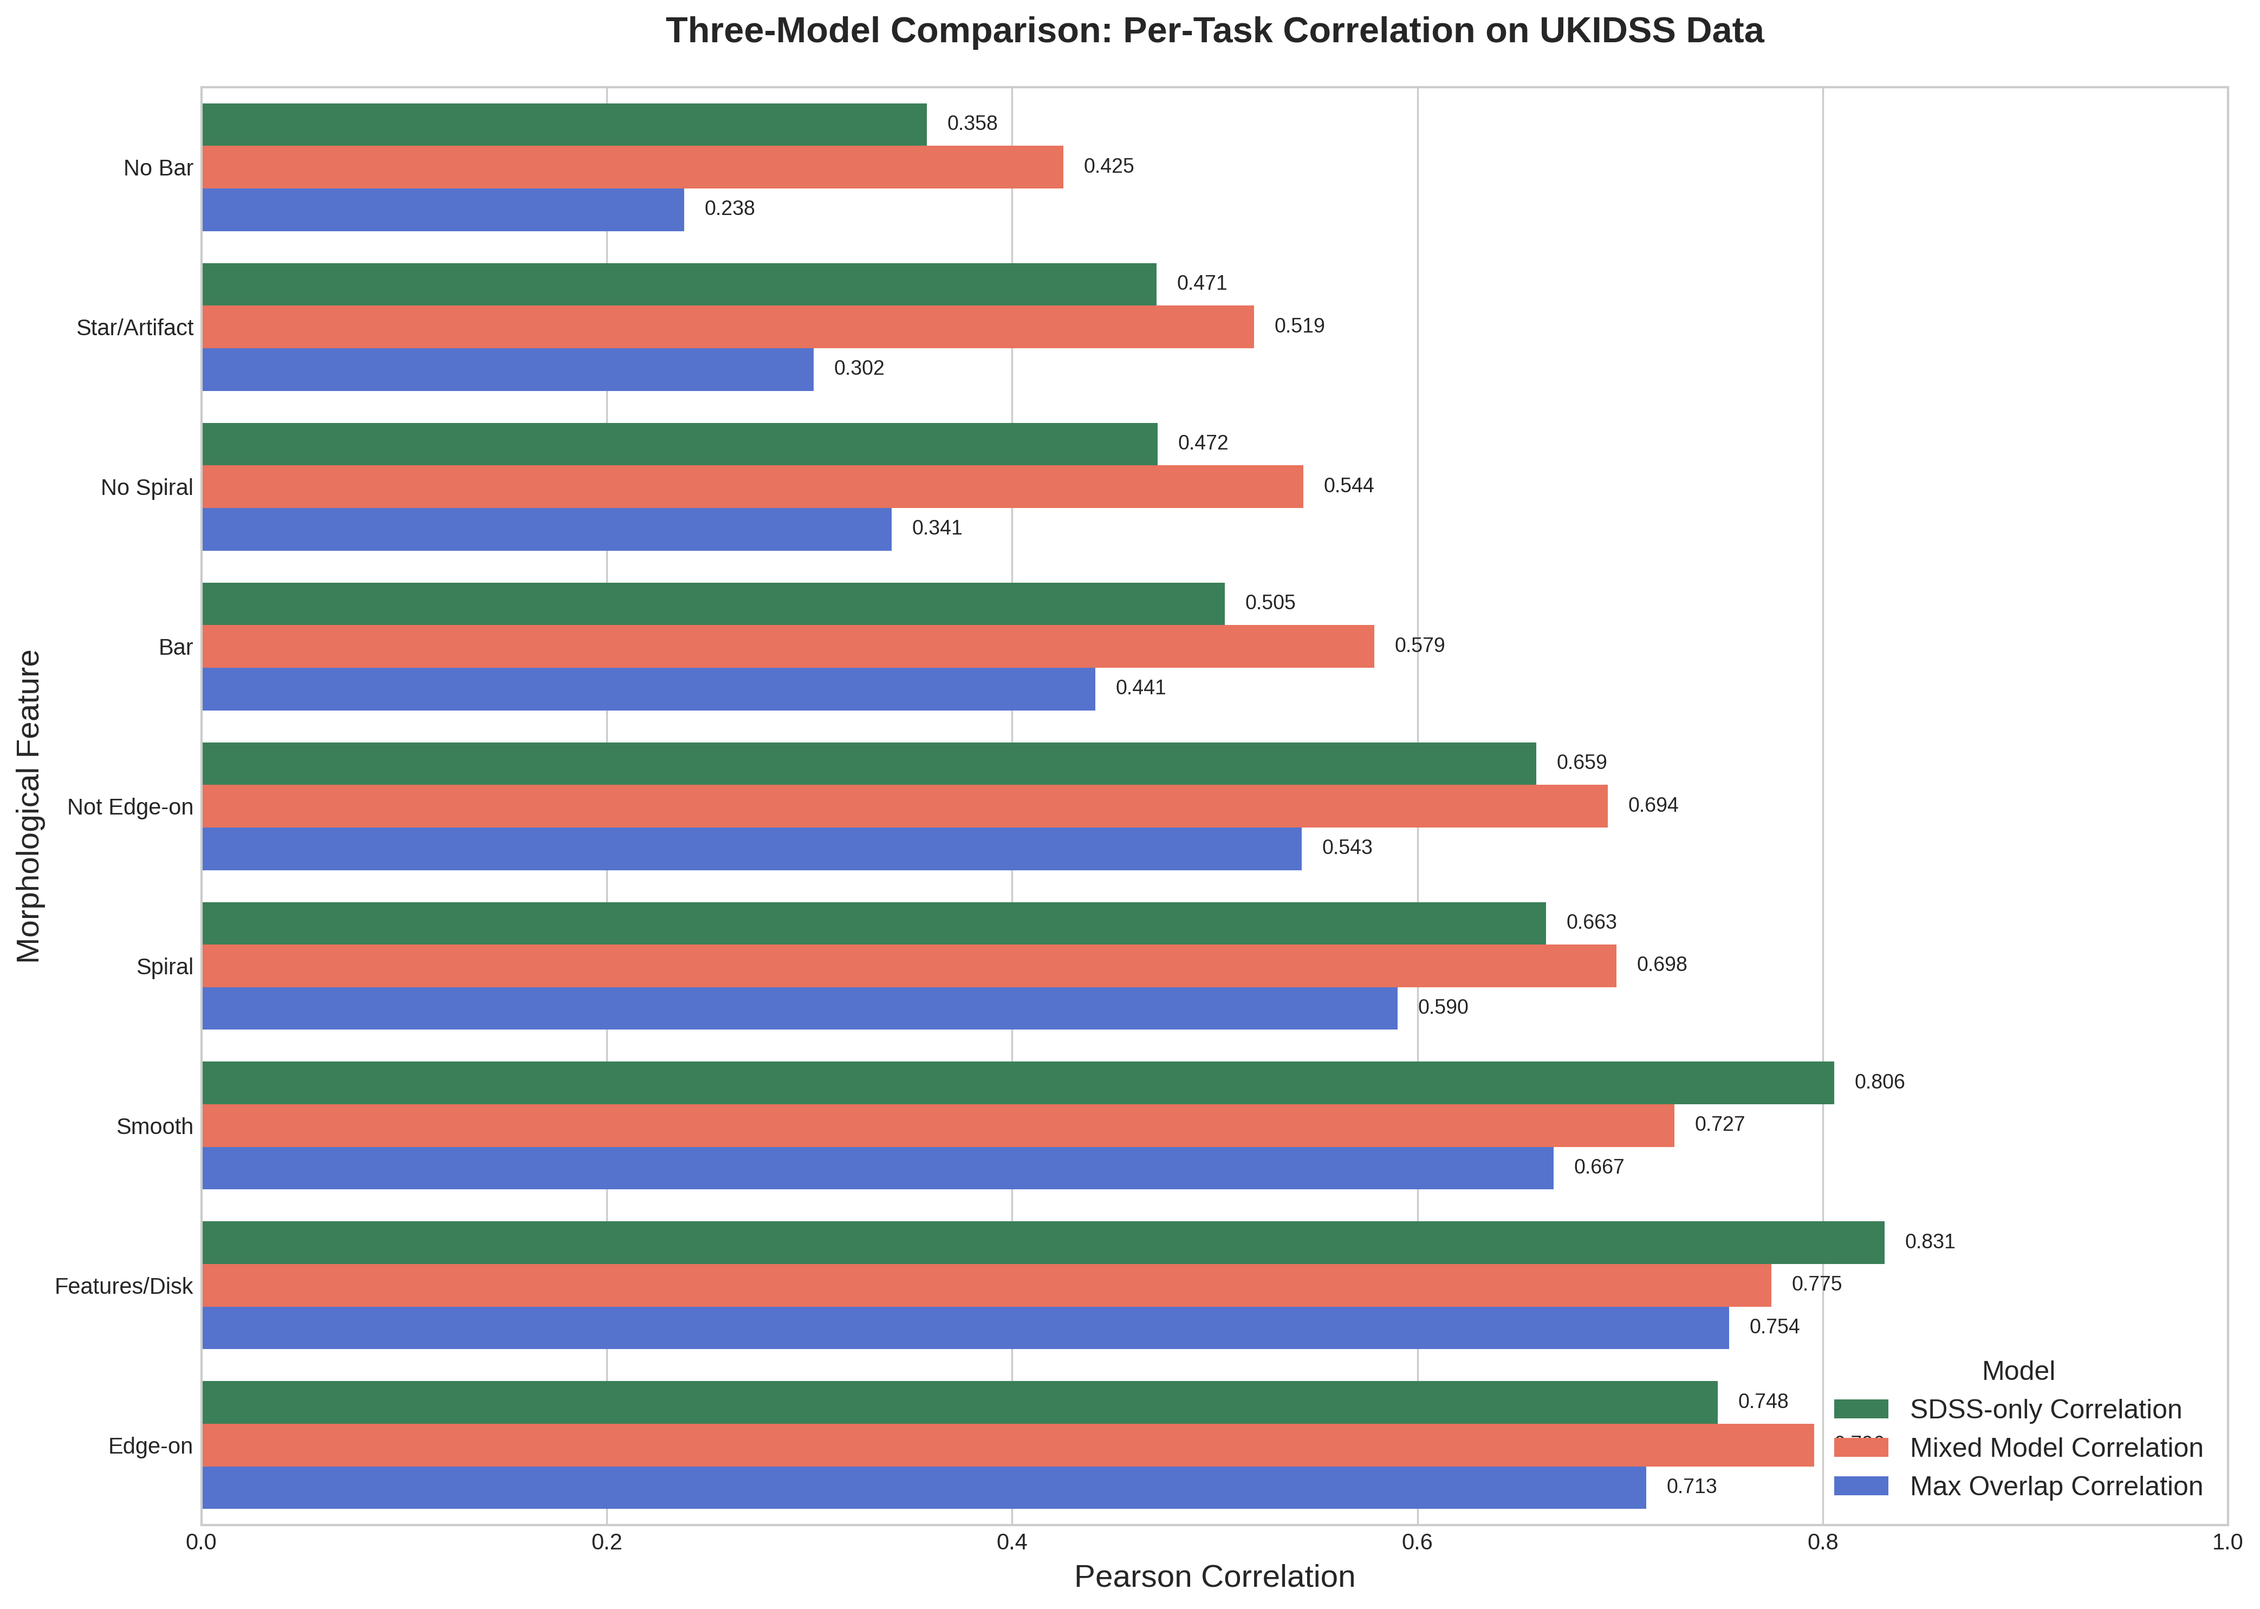
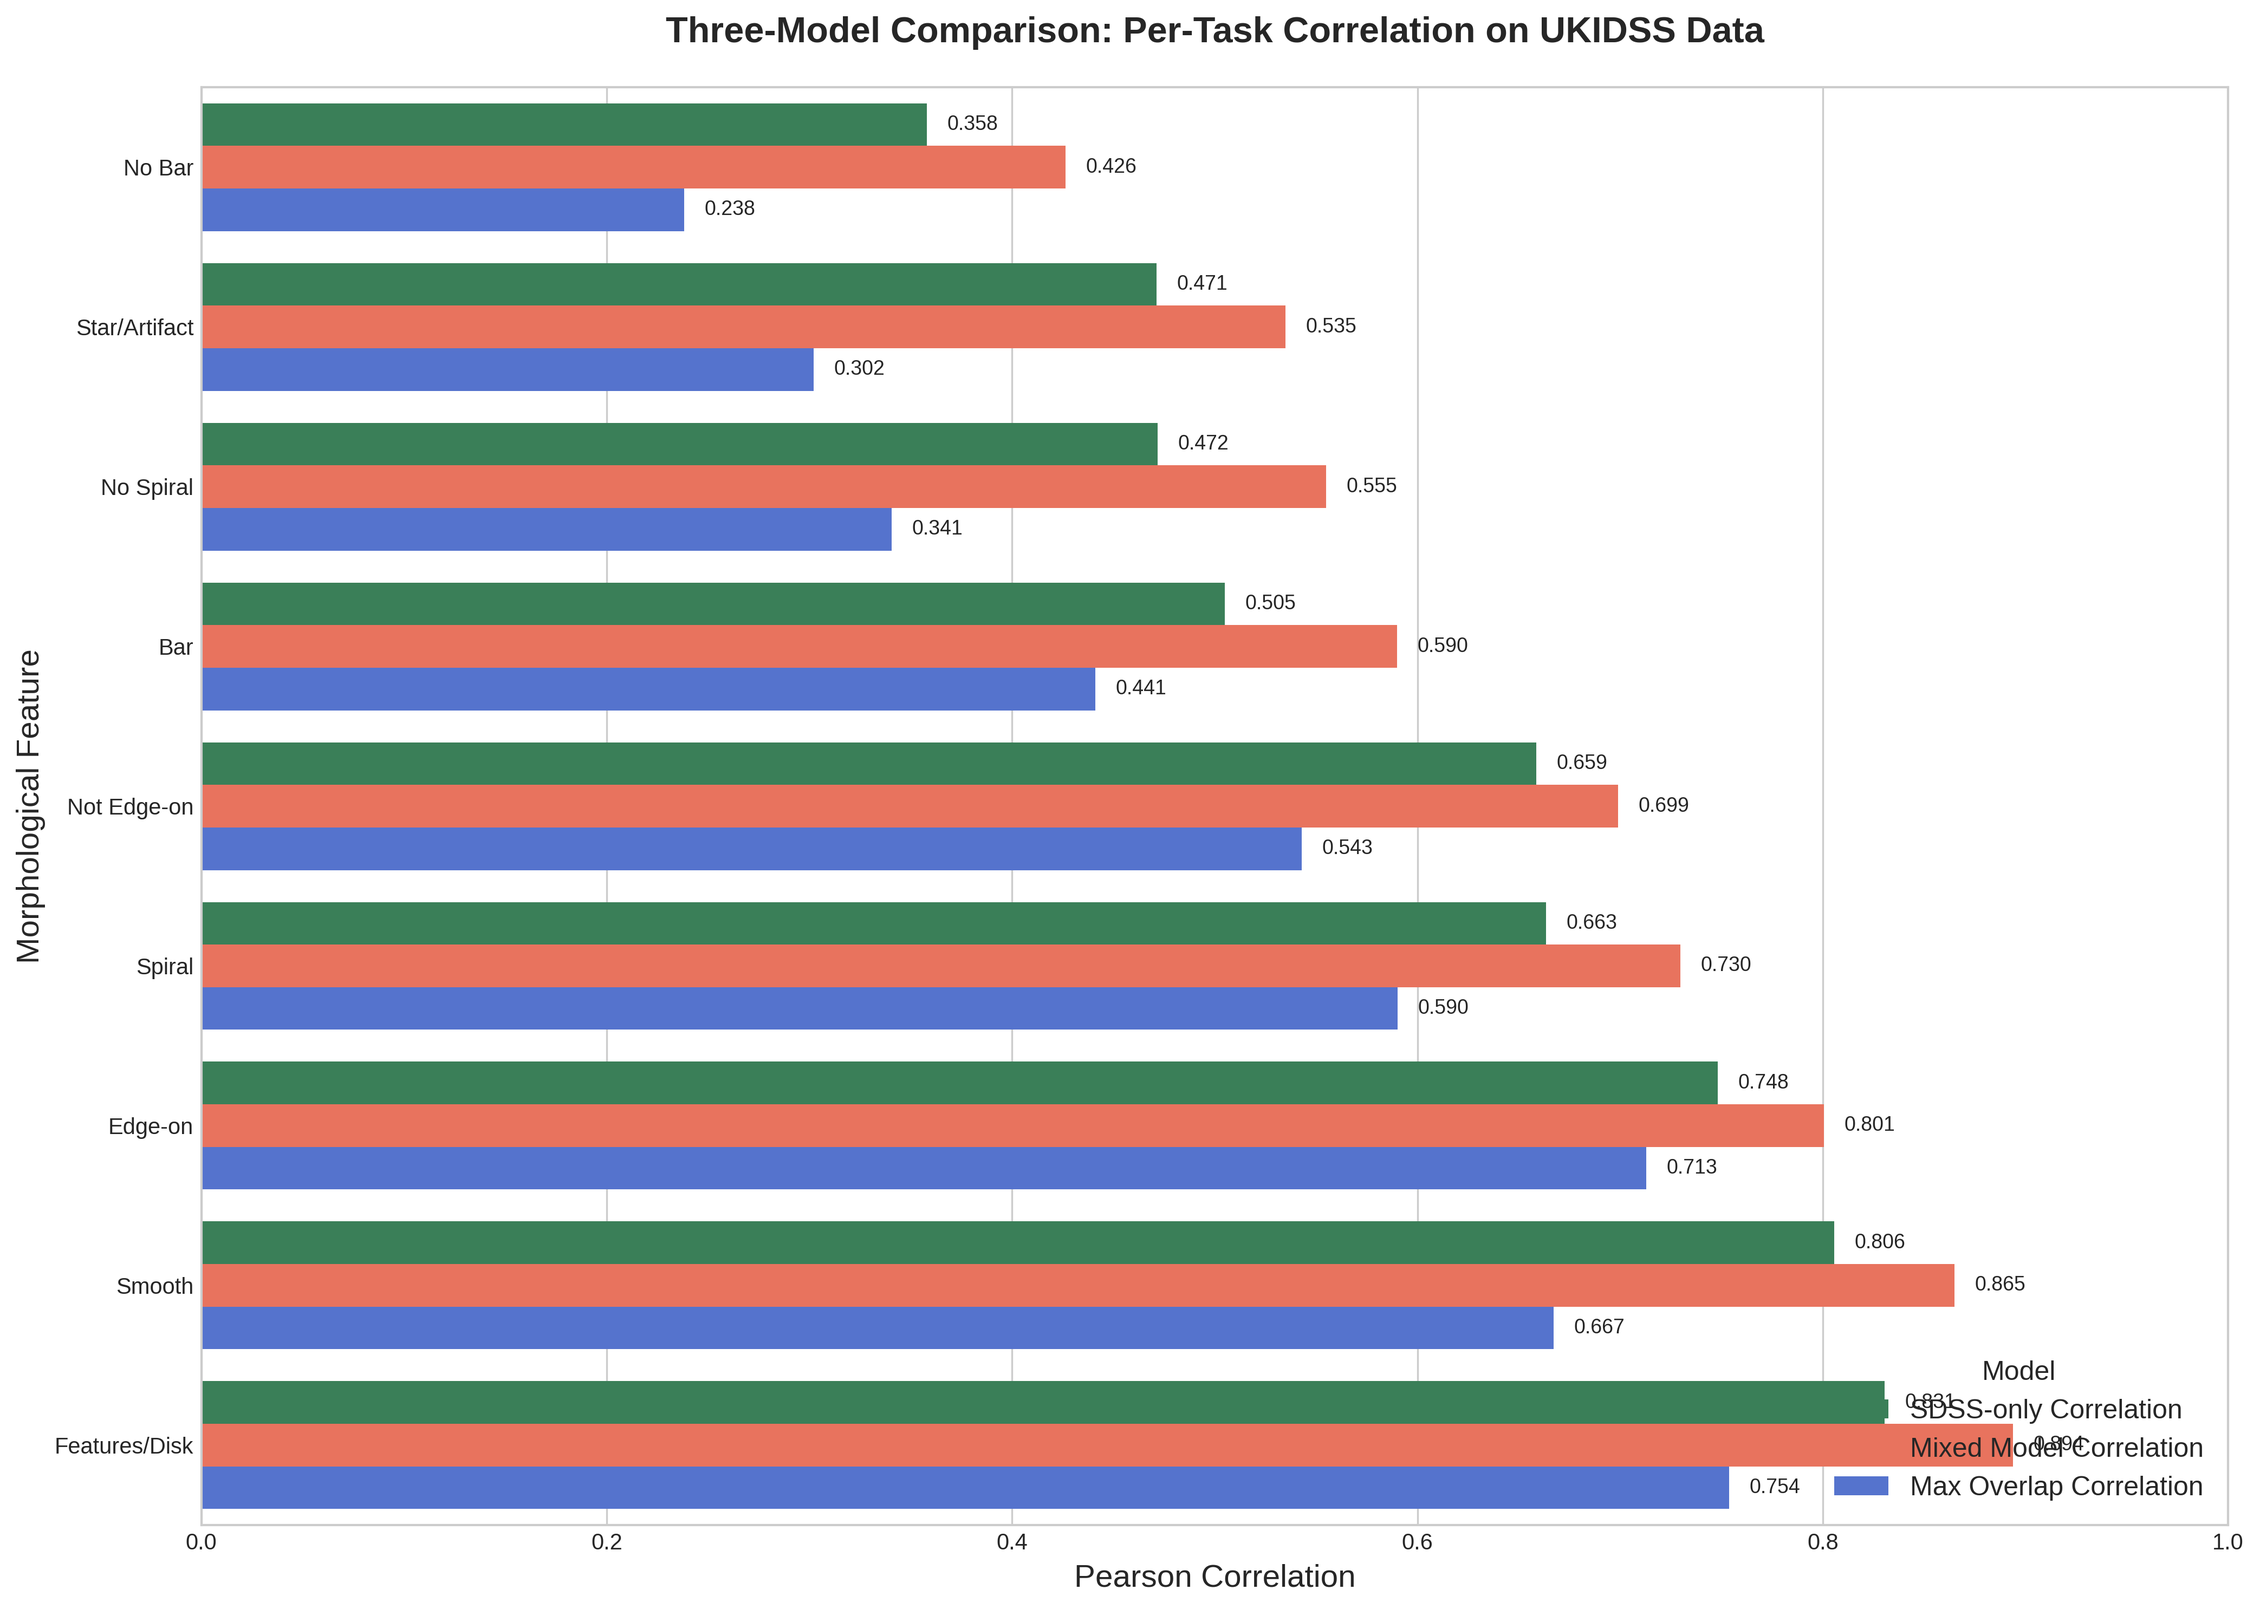
fixing feature map bug in compare_model

diff --git a/scripts/compare_models.py b/scripts/compare_models.py
@@ -155,6 +155,25 @@ def load_shared_features(filepath):
             features.append(feature_name)
     return features
 
+def get_model_features_from_config(config_path, model_path):
+    """Determine model features based on config and validate against model size."""
+    with open(config_path, 'r') as f:
+        config = yaml.safe_load(f)
+    
+    # Check if this is a mixed dataset model
+    mixed_config = config.get('mixed_data', {})
+    if mixed_config.get('use_mixed_dataset', False):
+        dataset_name = mixed_config.get('dataset_name', 'MixedSDSSDECaLSDataset')
+        if dataset_name == "MaxOverlapDataset":
+            print(f"Detected MaxOverlapDataset model: {model_path}")
+            return load_shared_features(SHARED_FEATURES_FILE)  # Max overlap uses same feature set as mixed
+        else:
+            print(f"Detected Mixed SDSS+DECaLS model: {model_path}")
+            return load_shared_features(SHARED_FEATURES_FILE)
+    else:
+        print(f"Detected SDSS-only model: {model_path}")
+        return get_sdss_feature_columns(SDSS_CATALOG_PATH)
+
 def run_comparison(args):
     """Runs the two-model comparison."""
     print("Running in comparison mode...")
@@ -167,38 +186,55 @@ def run_comparison(args):
     ukidss_dataset = load_ukidss_data()
 
     # Get predictions
-    preds1, true_labels = get_predictions(model1, device, ukidss_dataset)
-    preds2, _ = get_predictions(model2, device, ukidss_dataset)
-
-    # ... (rest of comparison logic as before) ...
-    # This part needs to be adapted to use the generic preds1, preds2 etc.
-    # For now, let's assume model1 is SDSS and model2 is Mixed for simplicity of refactoring.
+    model1_preds, true_labels = get_predictions(model1, device, ukidss_dataset)
+    model2_preds, _ = get_predictions(model2, device, ukidss_dataset)
     
-    sdss_preds, mixed_preds = preds1, preds2
-    
-    print(f"Model 1 predictions shape: {sdss_preds.shape}")
-    print(f"Model 2 predictions shape: {mixed_preds.shape}")
+    print(f"Model 1 predictions shape: {model1_preds.shape}")
+    print(f"Model 2 predictions shape: {model2_preds.shape}")
     print(f"True labels shape: {true_labels.shape}")
     
-    # The rest of the logic from the original main function follows...
+    # Get feature columns for each model based on their configs
     ukidss_label_columns = ukidss_dataset.label_columns
-    all_shared_features = load_shared_features(SHARED_FEATURES_FILE)
-    comparison_features = [f for f in all_shared_features if f in ukidss_label_columns and "fraction" in f]
-    print(f"\nFound {len(comparison_features)} features common to all models and the UKIDSS dataset for comparison.")
+    
+    model1_features = get_model_features_from_config(args.model1_config, args.model1_path)
+    model2_features = get_model_features_from_config(args.model2_config, args.model2_path)
+    
+    # Validate feature counts match model outputs
+    if len(model1_features) != args.model1_features:
+        print(f"WARNING: Model1 config suggests {len(model1_features)} features, but --model1_features={args.model1_features}")
+        # Truncate to actual model size
+        model1_features = model1_features[:args.model1_features]
+    
+    if len(model2_features) != args.model2_features:
+        print(f"WARNING: Model2 config suggests {len(model2_features)} features, but --model2_features={args.model2_features}")
+        # Truncate to actual model size  
+        model2_features = model2_features[:args.model2_features]
+    
+    # Find common features between both models and UKIDSS
+    comparison_features = []
+    for feature in ukidss_label_columns:
+        if feature in model1_features and feature in model2_features and "fraction" in feature:
+            comparison_features.append(feature)
+    
+    print(f"\nFound {len(comparison_features)} features common to both models and UKIDSS dataset.")
+    print(f"Model 1 features: {len(model1_features)} total")
+    print(f"Model 2 features: {len(model2_features)} total")
+    
+    # Get indices for each model
+    model1_indices = [model1_features.index(f) for f in comparison_features]
+    model2_indices = [model2_features.index(f) for f in comparison_features]
+    ukidss_indices = [ukidss_label_columns.index(f) for f in comparison_features]
+    
+    # Extract relevant predictions and labels
+    model1_preds_final = model1_preds[:, model1_indices]
+    model2_preds_final = model2_preds[:, model2_indices]
+    true_labels_final = true_labels[:, ukidss_indices]
+    
+    print(f"Model 1 final predictions: {model1_preds_final.shape}")
+    print(f"Model 2 final predictions: {model2_preds_final.shape}")
+    print(f"True labels final: {true_labels_final.shape}")
 
-    sdss_all_features = get_sdss_feature_columns(SDSS_CATALOG_PATH)
-    sdss_indices = [sdss_all_features.index(f) for f in comparison_features]
-    sdss_preds_final = sdss_preds[:, sdss_indices]
-
-    mixed_indices = [all_shared_features.index(f) for f in comparison_features]
-    mixed_preds_final = mixed_preds[:, mixed_indices]
-
-    true_labels_indices = [ukidss_label_columns.index(f) for f in comparison_features]
-    true_labels_final = true_labels[:, true_labels_indices]
-
-    print(f"  True labels: {true_labels_final.shape}")
-
-    print_metrics_table(sdss_preds_final, mixed_preds_final, true_labels_final, comparison_features)
+    print_metrics_table(model1_preds_final, model2_preds_final, true_labels_final, comparison_features)
 
 def run_single_benchmark(args):
     """Runs a benchmark on a single model."""

diff --git a/scripts/plot_final_comparison.py b/scripts/plot_final_comparison.py
@@ -8,7 +8,7 @@ def plot_per_task_correlation():
     Generates and saves a bar plot comparing the per-task correlation
     for the SDSS-only, Mixed, and Max Overlap models.
     """
-    output_dir = Path("benchmark_results/comparison_plots")
+    output_dir = Path("plots/comparison_plots")
     output_dir.mkdir(parents=True, exist_ok=True)
 
     # Data from the latest comparison runs with corrected max overlap model (epoch 3)
@@ -25,7 +25,7 @@ def plot_per_task_correlation():
             't02_edgeon_a05_no_fraction'
         ],
         'SDSS-only Correlation': [0.504843, 0.471730, 0.357965, 0.663404, 0.471244, 0.830521, 0.805700, 0.748225, 0.658756],
-        'Mixed Model Correlation': [0.578755, 0.543781, 0.425297, 0.698296, 0.519300, 0.774724, 0.726697, 0.795632, 0.693946],
+        'Mixed Model Correlation': [0.589888, 0.554826, 0.426390, 0.729861, 0.534782, 0.893810, 0.864938, 0.800587, 0.698937],
         'Max Overlap Correlation': [0.440979, 0.340584, 0.238200, 0.590113, 0.302107, 0.753756, 0.667092, 0.712984, 0.542849]
     }
     df = pd.DataFrame(data)
@@ -86,7 +86,7 @@ def plot_overall_metrics_comparison():
     """
     Creates a summary plot comparing overall metrics across all three models.
     """
-    output_dir = Path("benchmark_results/comparison_plots")
+    output_dir = Path("plots/comparison_plots")
     output_dir.mkdir(parents=True, exist_ok=True)
     
     # Overall metrics from latest comparison
